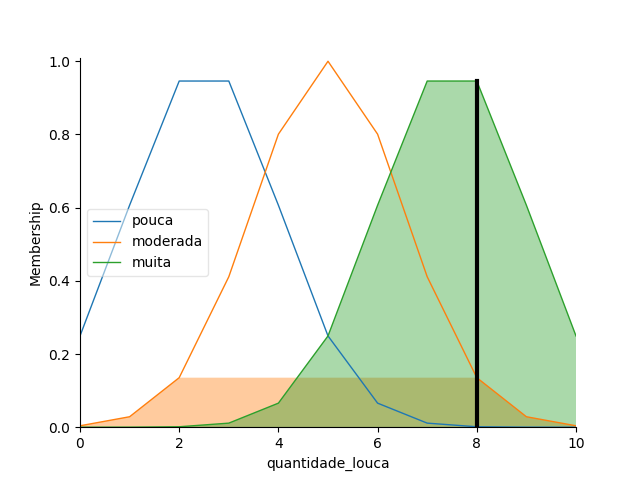
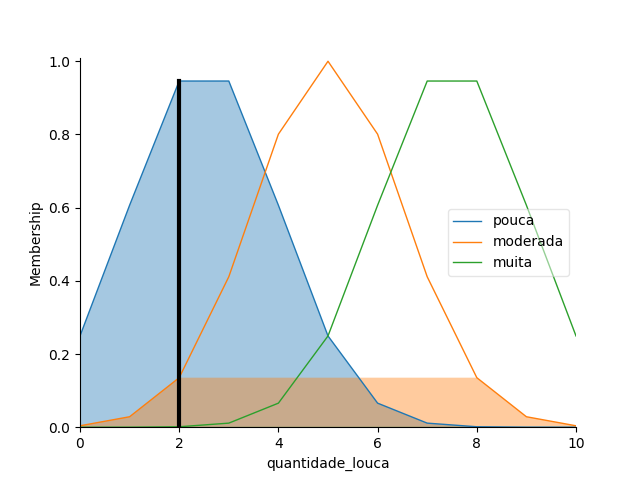
removed some useless stuff

diff --git a/main.py b/main.py
@@ -13,25 +13,25 @@ tempo_lavagem = ctrl.Consequent(np.arange(0, 121, 1), 'tempo_lavagem')  # Tempo 
 temperatura_agua = ctrl.Consequent(np.arange(0, 81, 1), 'temperatura_agua')  # Temperatura da água (0 a 80 °C)
 
 #Funções de pertinência
-nivel_sujeira['leve'] = fuzz.trapmf(nivel_sujeira.universe, [0, 0, 30, 50])  # Leve
-nivel_sujeira['moderada'] = fuzz.trapmf(nivel_sujeira.universe, [30, 50, 70, 90])  # Moderada
-nivel_sujeira['pesada'] = fuzz.trapmf(nivel_sujeira.universe, [70, 90, 100, 100])  # Pesada
+nivel_sujeira['leve'] = fuzz.trapmf(nivel_sujeira.universe, [0, 0, 30, 50])
+nivel_sujeira['moderada'] = fuzz.trapmf(nivel_sujeira.universe, [30, 50, 70, 90])
+nivel_sujeira['pesada'] = fuzz.trapmf(nivel_sujeira.universe, [70, 90, 100, 100])
 
-quantidade_louca['pouca'] = fuzz.gaussmf(quantidade_louca.universe, 2.5, 1.5)  # Pouca (centro em 2.5)
-quantidade_louca['moderada'] = fuzz.gaussmf(quantidade_louca.universe, 5, 1.5)  # Moderada (centro em 5)
-quantidade_louca['muita'] = fuzz.gaussmf(quantidade_louca.universe, 7.5, 1.5)  # Muita (centro em 7.5)
+quantidade_louca['pouca'] = fuzz.gaussmf(quantidade_louca.universe, 2.5, 1.5)
+quantidade_louca['moderada'] = fuzz.gaussmf(quantidade_louca.universe, 5, 1.5)
+quantidade_louca['muita'] = fuzz.gaussmf(quantidade_louca.universe, 7.5, 1.5)
 
-nivel_gordura['baixa'] = fuzz.trimf(nivel_gordura.universe, [0, 0, 50])  # Baixa gordura (0 a 50)
-nivel_gordura['media'] = fuzz.trimf(nivel_gordura.universe, [30, 50, 70])  # Média gordura (30 a 70)
-nivel_gordura['alta'] = fuzz.trimf(nivel_gordura.universe, [50, 100, 100])  # Alta gordura (50 a 100)
+nivel_gordura['baixa'] = fuzz.trimf(nivel_gordura.universe, [0, 0, 50])
+nivel_gordura['media'] = fuzz.trimf(nivel_gordura.universe, [30, 50, 70])
+nivel_gordura['alta'] = fuzz.trimf(nivel_gordura.universe, [50, 100, 100])
 
-tempo_lavagem['curto'] = fuzz.trimf(tempo_lavagem.universe, [0, 0, 60])  # Curto
-tempo_lavagem['medio'] = fuzz.trapmf(tempo_lavagem.universe, [30, 60, 90, 120])  # Médio
-tempo_lavagem['longo'] = fuzz.trimf(tempo_lavagem.universe, [90, 120, 120])  # Longo
+tempo_lavagem['curto'] = fuzz.trimf(tempo_lavagem.universe, [0, 0, 60])
+tempo_lavagem['medio'] = fuzz.trapmf(tempo_lavagem.universe, [30, 60, 90, 120])
+tempo_lavagem['longo'] = fuzz.trimf(tempo_lavagem.universe, [90, 120, 120])
 
-temperatura_agua['fria'] = fuzz.gaussmf(temperatura_agua.universe, 20, 10)  # Fria (centro em 20 °C)
-temperatura_agua['morna'] = fuzz.gaussmf(temperatura_agua.universe, 40, 10)  # Morna (centro em 40 °C)
-temperatura_agua['quente'] = fuzz.gaussmf(temperatura_agua.universe, 60, 10)  # Quente (centro em 60 °C)
+temperatura_agua['fria'] = fuzz.gaussmf(temperatura_agua.universe, 20, 10)
+temperatura_agua['morna'] = fuzz.gaussmf(temperatura_agua.universe, 40, 10)
+temperatura_agua['quente'] = fuzz.gaussmf(temperatura_agua.universe, 60, 10)
 
 # Visualização das funções de pertinência
 nivel_sujeira.view()
@@ -120,8 +120,8 @@ sistema = ctrl.ControlSystemSimulation(sistema_controle)
 
 # Entradas
 sistema.input['nivel_sujeira'] = 70  # Nível de sujeira (0 a 100)
-sistema.input['quantidade_louca'] = 8  # Quantidade de louça (0 a 10 kg)
-sistema.input['nivel_gordura'] = 60  # Nível de gordura (0 a 100)
+sistema.input['quantidade_louca'] = 2  # Quantidade de louça (0 a 10 kg)
+sistema.input['nivel_gordura'] = 40  # Nível de gordura (0 a 100)
 
 # Computação
 sistema.compute()
